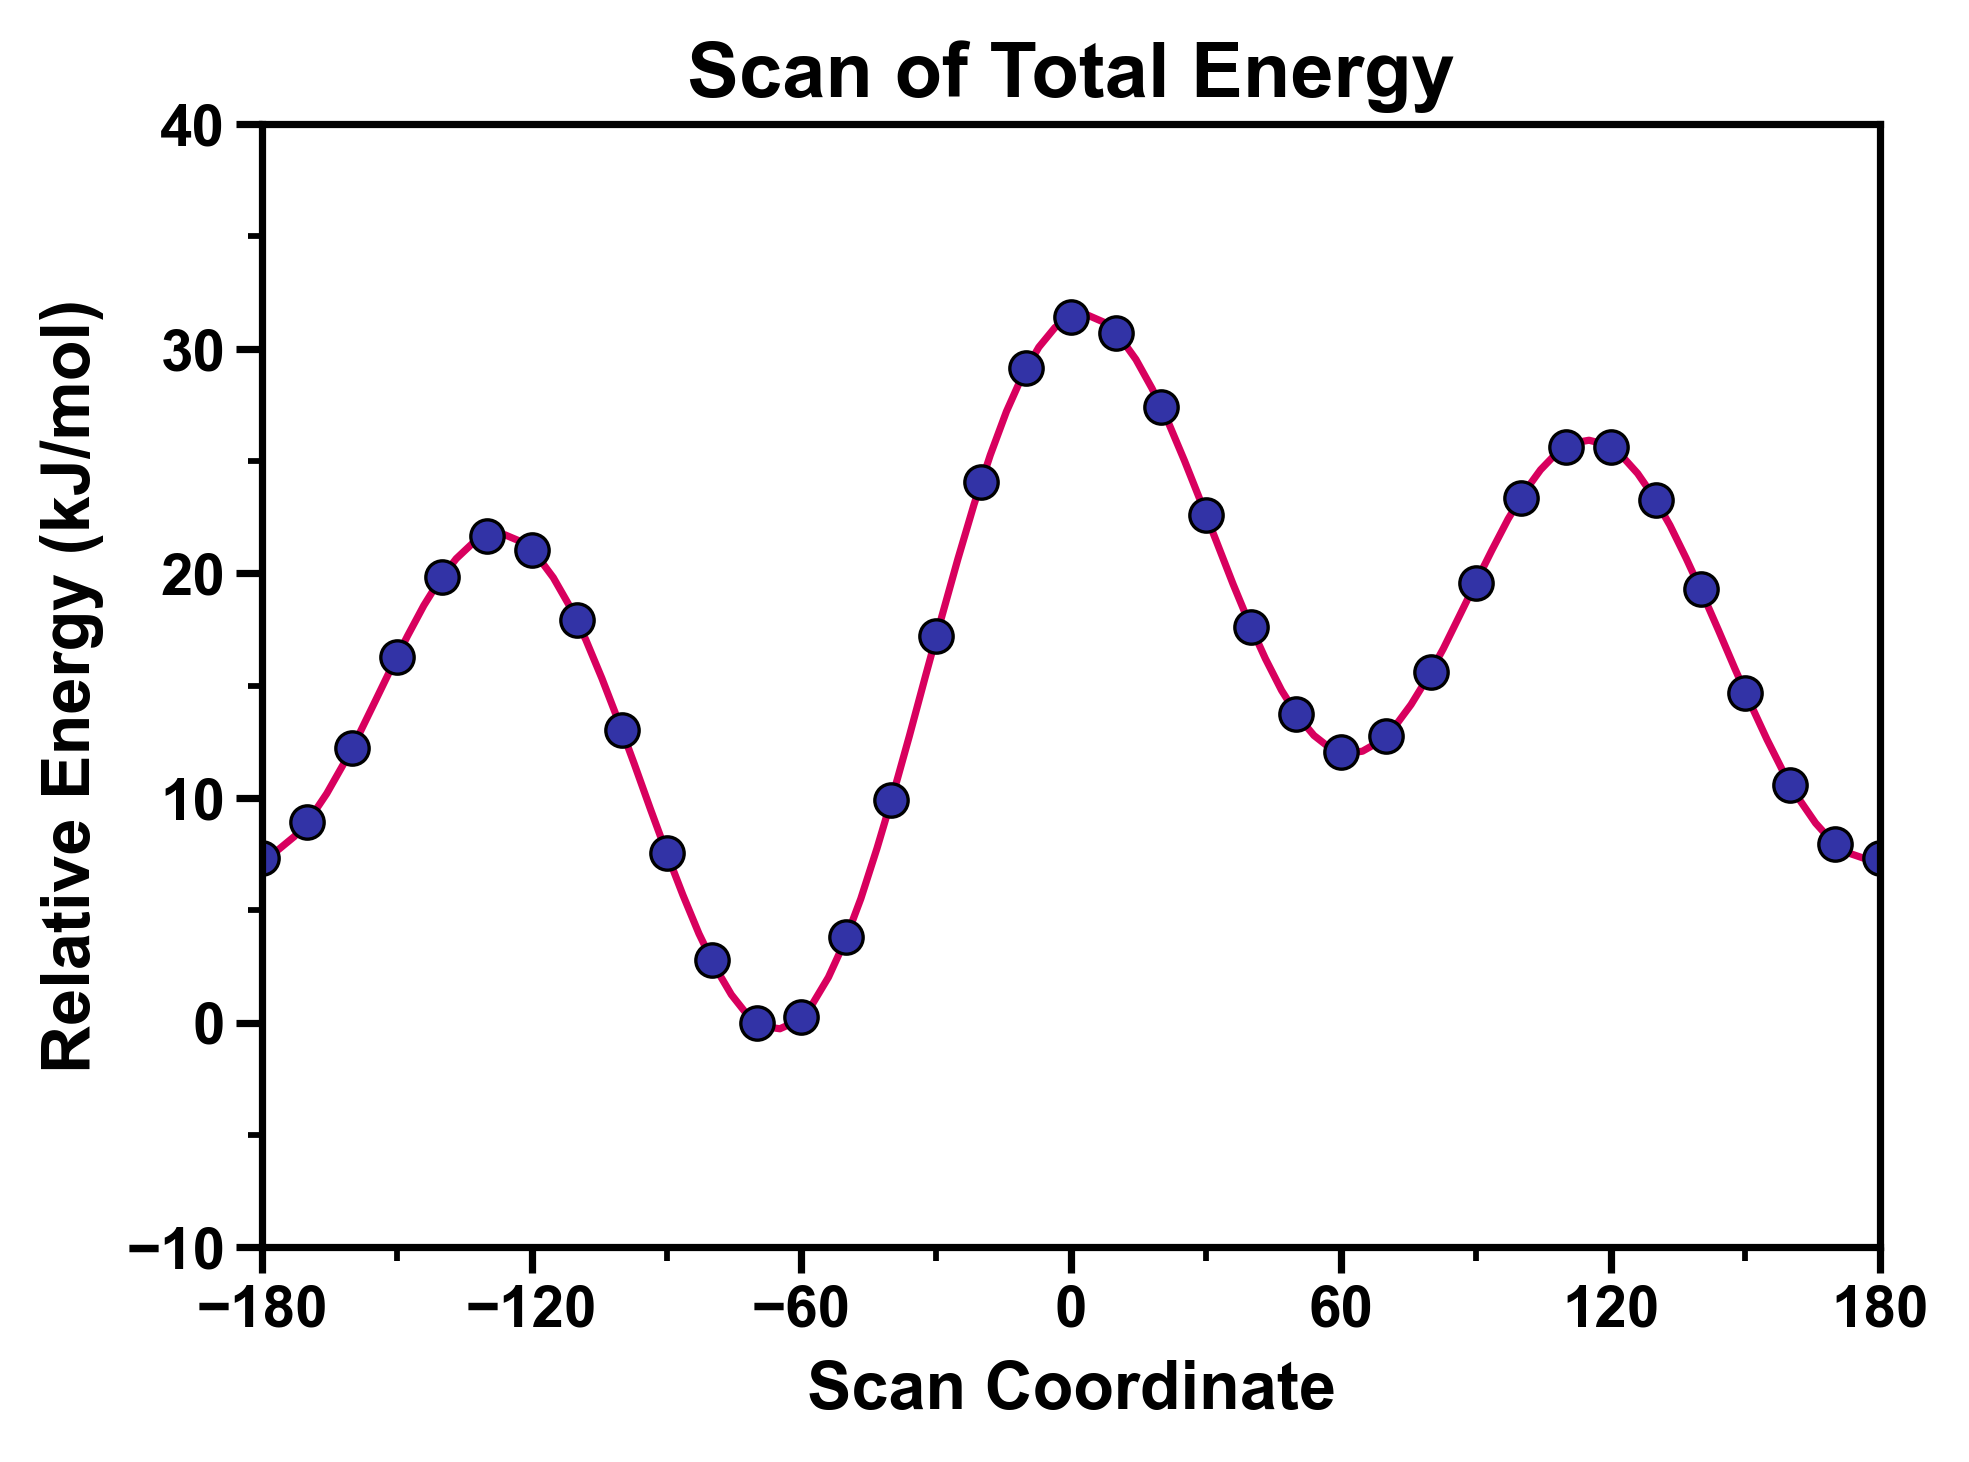
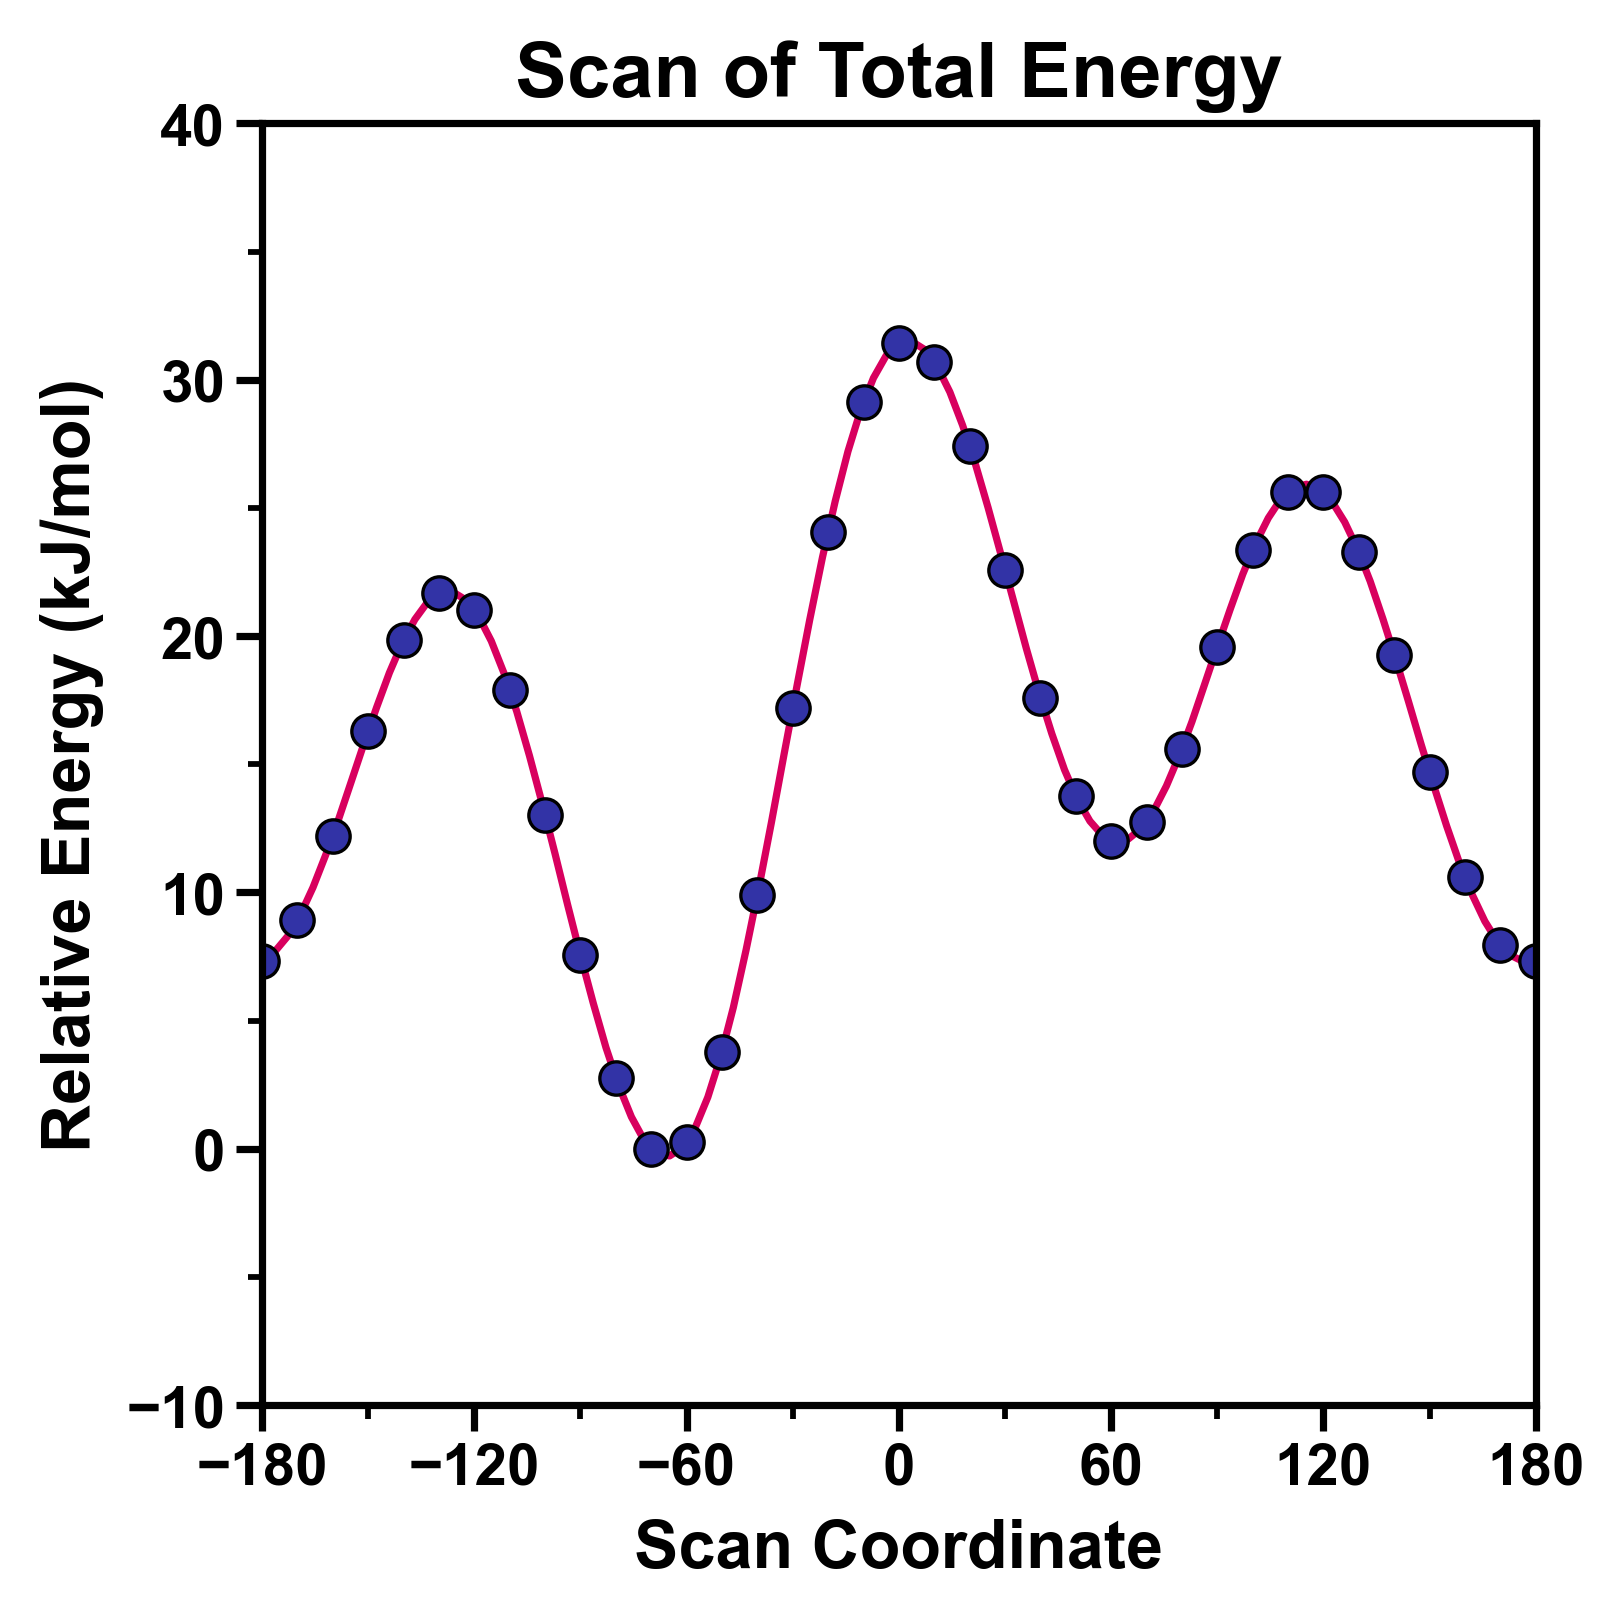
update scan

Changed region(s): [[0.0, 0.0, 0.9852, 0.985], [0.7389, 0.3386, 0.7697, 0.4309]]

diff --git a/color bar/colorbar.py b/color bar/colorbar.py
@@ -1,0 +1,33 @@
+import numpy as np
+import proplot as pplt
+
+from proplot import rc
+
+
+# 全局字体
+fontname = "Arial"
+# 全局字号，分别为普通字体、标签字体和标题字体
+fontsize = [10.5, 12, 14]
+
+# 设置绘图的默认参数，如字体、字号等
+rc['font.family'] = fontname
+rc['title.size'] = fontsize[2]
+rc['label.size'] = fontsize[1]
+rc['font.size'] = fontsize[0]
+# 设置其他参数
+rc['tick.width'] = 1.3
+rc['meta.width'] = 1.3
+rc['title.weight'] = 'bold'
+rc['label.weight'] = 'bold'
+rc['tick.labelweight'] = 'bold'
+rc['ytick.major.size'] = 4.6
+rc['ytick.minor.size'] = 2.5
+rc['xtick.major.size'] = 4.6
+rc['xtick.minor.size'] = 2.5
+
+fig, ax = pplt.subplots(figsize=(5, 2))
+
+
+
+
+fig.show()

diff --git a/line curve/scan-relax/scan.py b/line curve/scan-relax/scan.py
@@ -5,7 +5,6 @@ import proplot as pplt
 from proplot import rc
 from scipy import interpolate
 
-from utils.auto import auto_lim
 
 # 标题、x 和 y 轴 label
 # 可以直接在 txt 中读取，也可以自行配置
@@ -76,12 +75,6 @@ yNew = f(xNew)
 ax.plot(xNew, yNew, color=colors[0], linewidth=1.3, zorder=1)
 # 绘制实际的点
 ax.scatter(data['X'], data['Y'], color=colors[1], zorder=2, edgecolor='black')
-
-# 如果 ylim 和 xlim 为 None 或空，则调用自动生成坐标轴刻度
-if ylim is None or ylim == []:
-    ylim = auto_lim(data['Y'].max(), data['Y'].min())
-if xlim is None or xlim == []:
-    xlim = auto_lim(data['X'].max(), data['X'].min())
 
 # 格式化图像
 fig.format(
